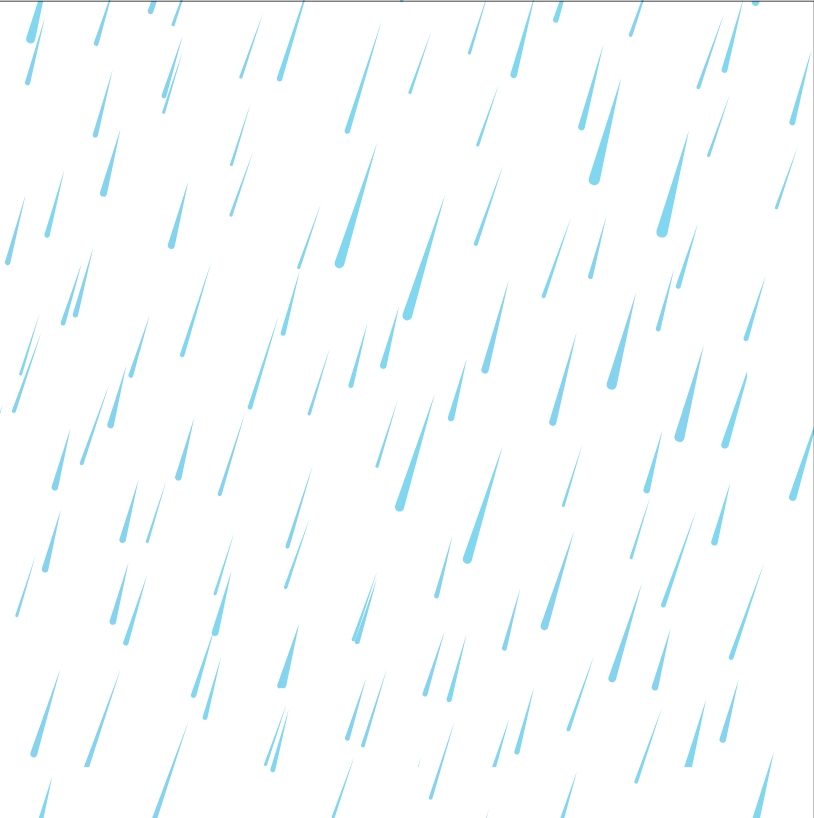
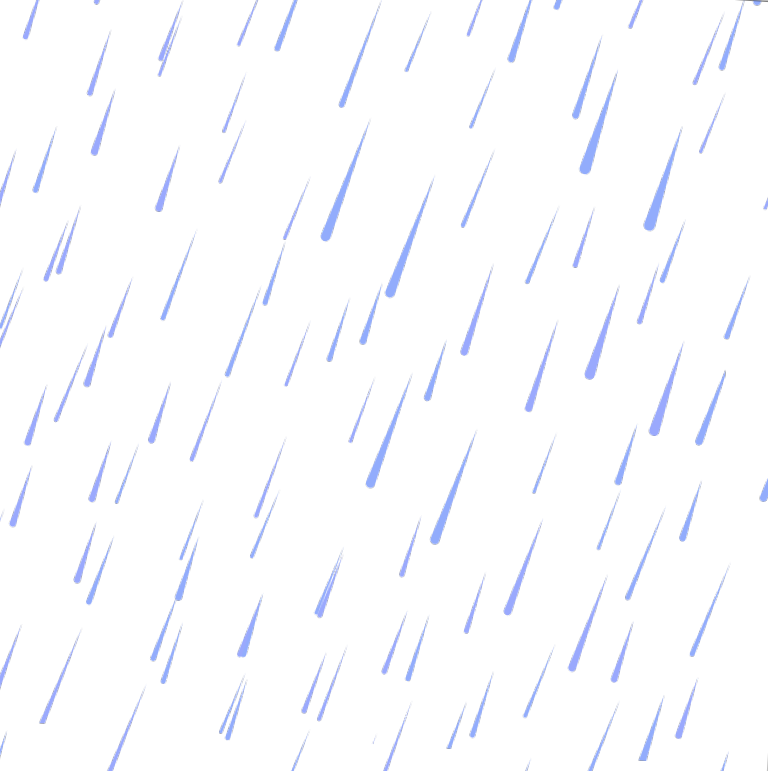
Fixed the rain and added person to scene 3

diff --git a/src/Scene3B.java b/src/Scene3B.java
@@ -46,7 +46,7 @@ public class Scene3B extends BaseScene {
 		Robot robot = new Robot(main, text);
 		robot.direction = 1;
 		robot.speech = true;
-		robot.setLocation(550, 200);
+		robot.setLocation(550, 260);
 		robot.setSize(robot.getWidth(), robot.getHeight());
 		main.add(robot, JLayeredPane.PALETTE_LAYER);
 		
@@ -185,6 +185,8 @@ public class Scene3B extends BaseScene {
 		public void paintComponent(Graphics g) {
 			Image background = new ImageIcon("./Images/Scene3BGB.png").getImage();
 			g.drawImage(background, 0, 0, 800, 500, this);
+			Image person = new ImageIcon("./Images/Person.png").getImage();
+			g.drawImage(person, 200, 250, 58, 135, this);
 		}
 	}
 }
